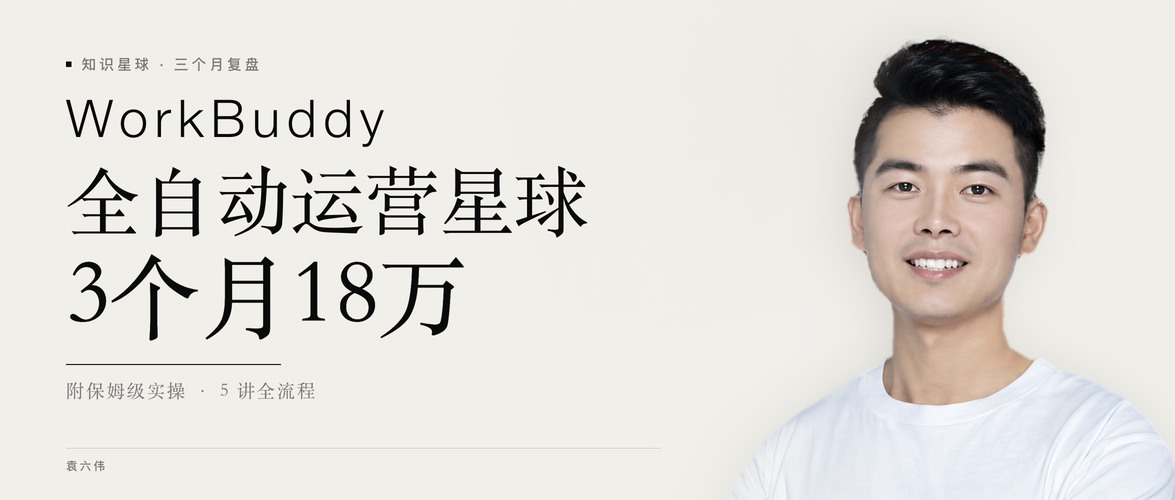
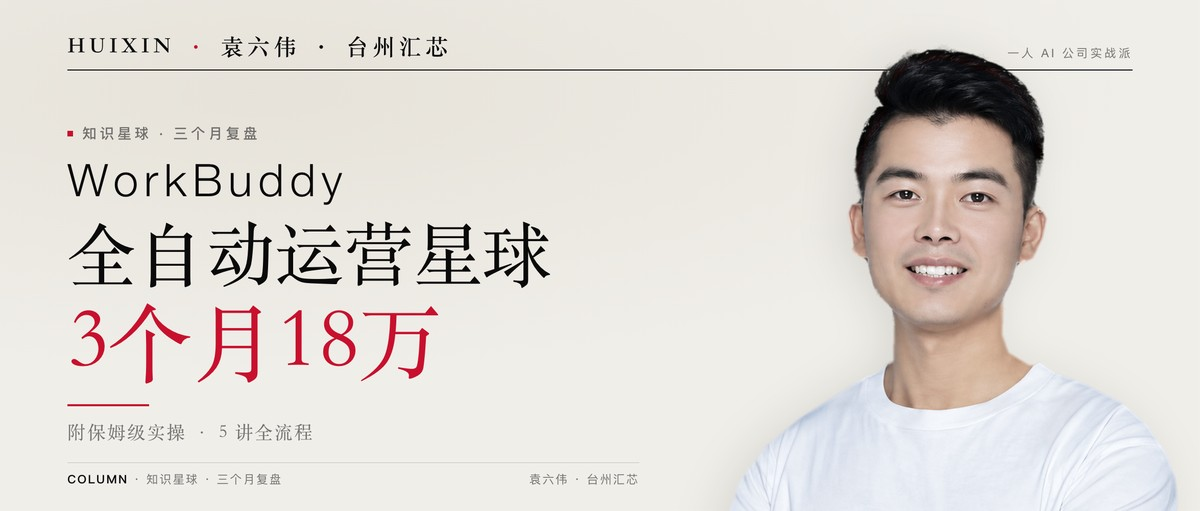
docs: update showcase cover demos for 6 distinct layouts

diff --git a/README.md b/README.md
@@ -127,14 +127,14 @@ https://github.com/sixwei2025/workbuddy-wechat-autopilot
   <img src="assets/showcase/00-cover-six.jpg" alt="六套封面体系总览：午夜墨、纸本墨、牛皮纸、靛蓝瓷、瑞士蓝、汇芯红" width="100%" />
 </p>
 
-| 主题 ID | 名称 | 底色 / 锚点色 | 人像处理策略 | 适用题材 |
+| 主题 ID | 名称 | 默认构图版式（`--layout`） | 底色 / 锚点色 | 适用题材 |
 | :--- | :--- | :--- | :--- | :--- |
-| `midnight` | **午夜墨** | `#0E0D0C` / `#D4A04A` 暖金 | 按亮度选择性压暗（白 T 压成中灰、脸部高光保住） | 带硬数字的结果复盘、搞钱算账、深夜深度长文 |
-| `paper` | **纸本墨** | `#F1EFEA` / `#0A0A0B` 纯墨 | 低饱和彩照（保留肤色血色，只压艳度） | 方法论、核心观点、体系化教程 |
-| `kraft` | **牛皮纸** | `#EEDFC7` / `#9B5A2E` 焦糖 | 暖调低饱和（复古感靠纸底色，不靠抽色） | 个人经历、创业踩坑、故事复盘 |
-| `indigo` | **靛蓝瓷** | `#F1F3F5` / `#315D93` 靛蓝 | 冷调半去饱和 | AI 工具实测、产品发布、技术方案拆解 |
-| `swiss` | **瑞士蓝** | `#FAFAF8` / `#002FA7` 克莱因蓝 | 低饱和彩照 + 顶部 26px 瑞士蓝横条 | 行业发布、工具清单、对比评测表 |
-| `brand` | **汇芯红** | `#FAF7F4` / `#C7352D` 品牌红 | 原色彩照轻压暗 | 通用主力，与正文汇芯红排版视觉完全一致 |
+| `midnight` | **午夜墨** | `cinema`（电影宽银幕 + 底部主创条） | `#0B0B0D` / `#D4A04A` 暖金 | 带硬数字的结果复盘、搞钱算账、深夜深度长文 |
+| `paper` | **纸本墨** | `masthead`（大刊报头 + 人物破框叠压） | `#F1EFEA` / `#C8102E` 汇芯红 | 方法论、核心观点、体系化教程 |
+| `kraft` | **牛皮纸** | `archive-card`（档案相框卡片 + IP 签名条） | `#EEDFC7` / `#9B4322` 焦糖 | 个人经历、创业踩坑、案例故事复盘 |
+| `indigo` | **靛蓝瓷** | `duotone-split`（60/40 硬切双色对撞） | `#F3F5F8` + `#132A4A` / `#C8102E` | AI 工具实测、产品发布、技术方案拆解 |
+| `swiss` | **瑞士蓝** | `swiss-grid`（`1px` 细线网格 + 半身特写） | `#FAFAF8` / `#002FA7` 克莱因蓝 | 行业发布、工具清单、对比评测表 |
+| `brand` | **汇芯红** | `editorial`（经典杂志双栏 + IP 印章） | `#FAF7F4` / `#C8102E` 品牌红 | 通用主力，与正文汇芯红排版视觉完全一致 |
 
 > **🔴 三条写进代码的封面造型原则：**
 > 1. **真人照片绝不做纯黑白**：中文语境里纯黑白真人照极其诡异，代码层面已移除 `bw` 模式，统一用「低饱和 + 纸感底 + 大留白」做高级感。
